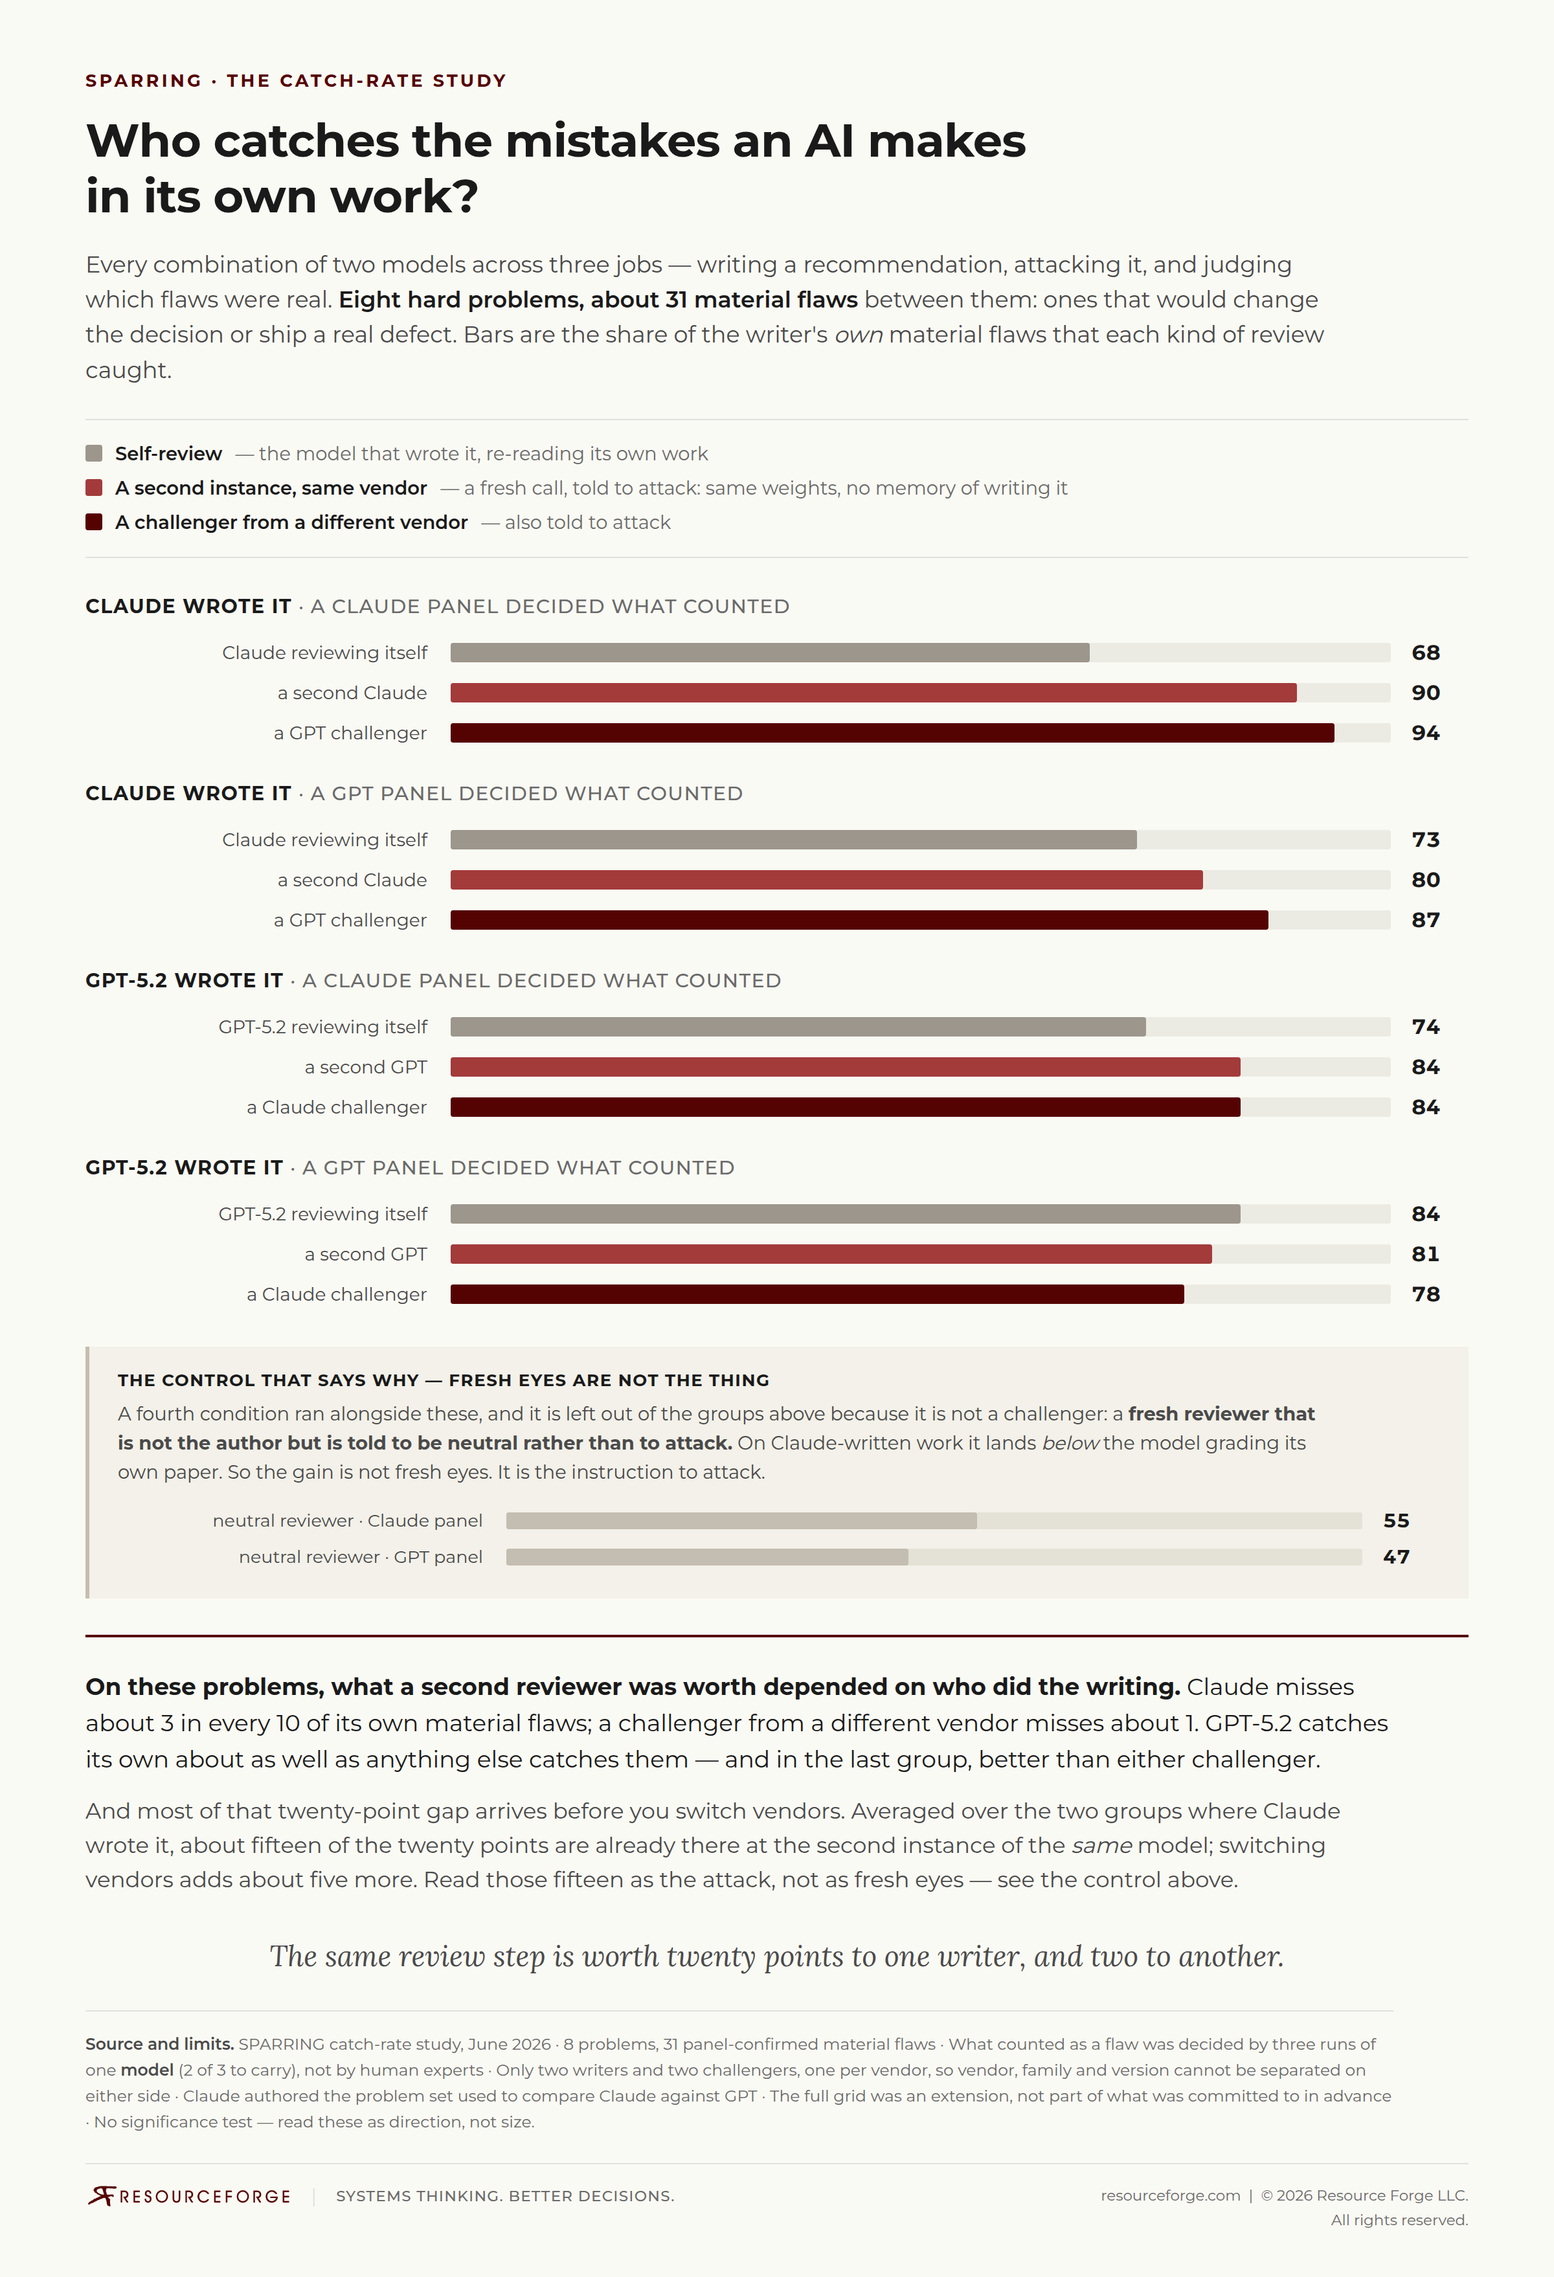
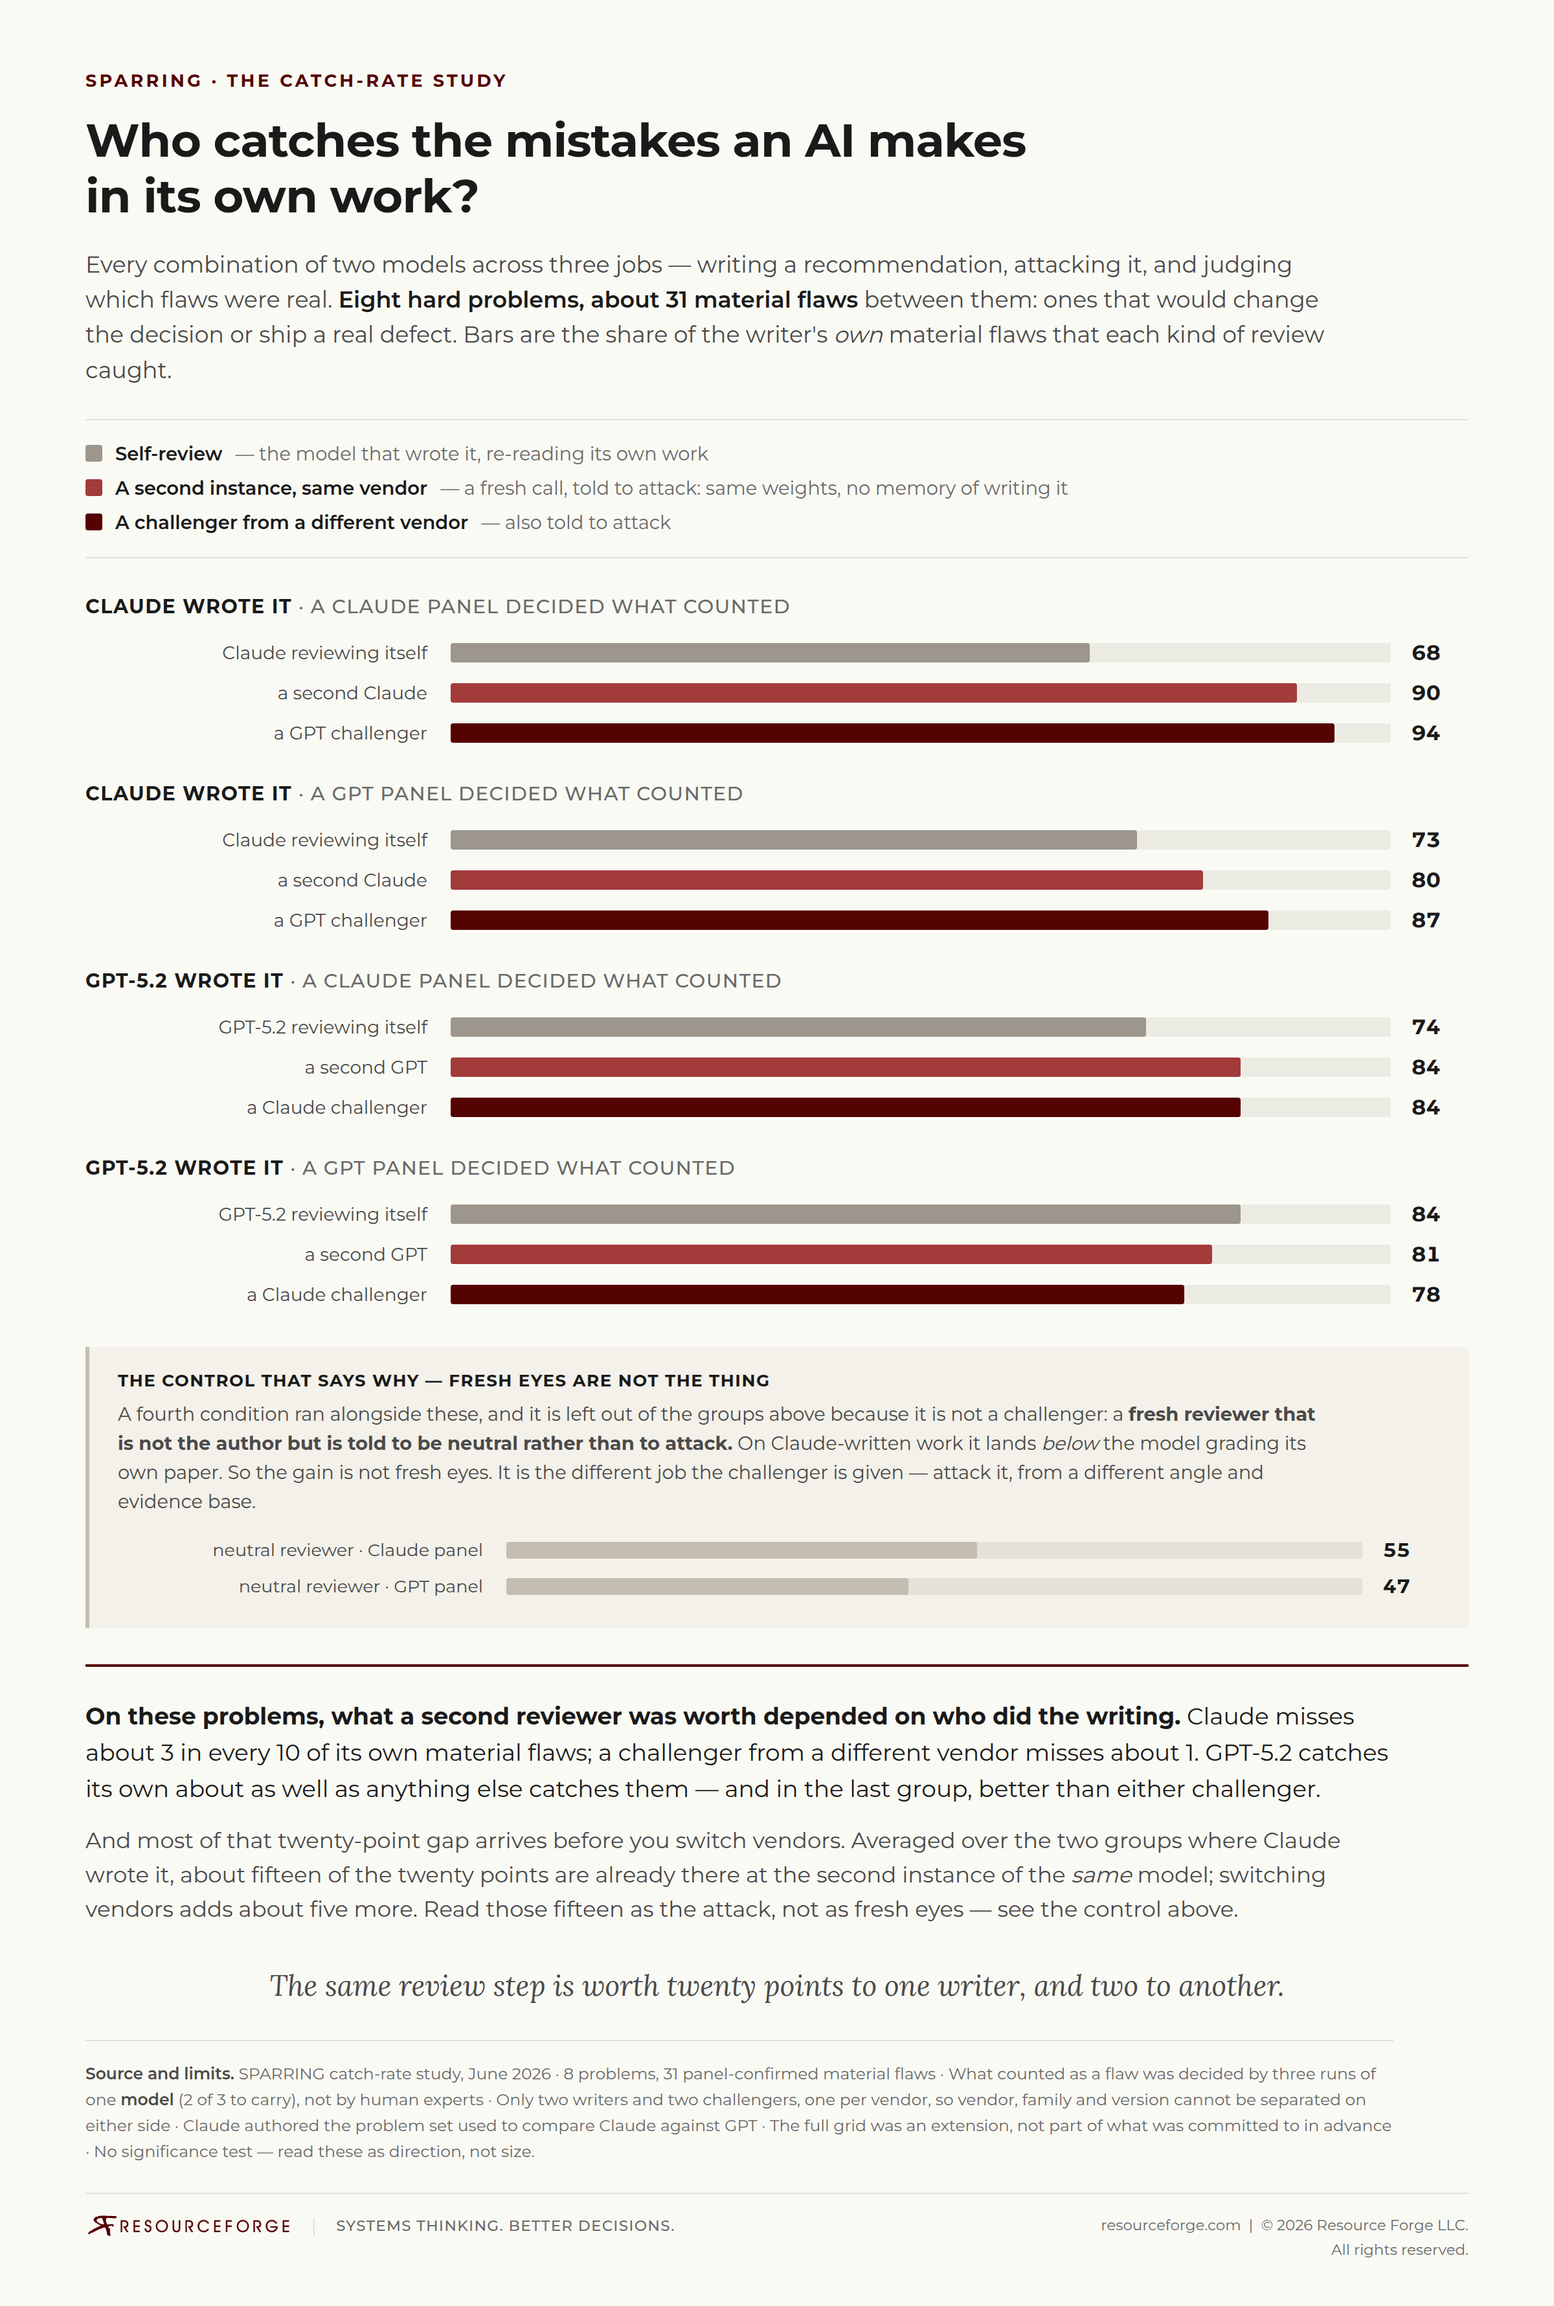
figure: the control strip names the whole job change, not just the attack
CHAL differs from NEUTRAL in two ways, and the pre-registration's own H2 says
so: it tests "adversarial + different-evidence." The strip read "the gain is
the instruction to attack," which credits one of the two. Now: "the different
job the challenger is given — attack it, from a different angle and evidence
base."

diff --git a/papers/2026-resolver-governance/governance/catch-rate/figures/catch-rate-grid-plain-language.html b/papers/2026-resolver-governance/governance/catch-rate/figures/catch-rate-grid-plain-language.html
@@ -213,7 +213,7 @@
     <p>A fourth condition ran alongside these, and it is left out of the groups above because it
     is not a challenger: a <b>fresh reviewer that is not the author but is told to be neutral
     rather than to attack.</b> On Claude-written work it lands <i>below</i> the model grading its
-    own paper. So the gain is not fresh eyes. It is the instruction to attack.</p>
+    own paper. So the gain is not fresh eyes. It is the different job the challenger is given &mdash; attack it, from a different angle and evidence base.</p>
     <div class="row"><div class="rowlab">neutral reviewer &middot; Claude panel</div>
       <div class="track"><div class="bar" style="width:55%;background:var(--neutral-light)"></div></div>
       <div class="val">55</div></div>
